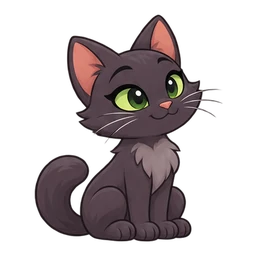
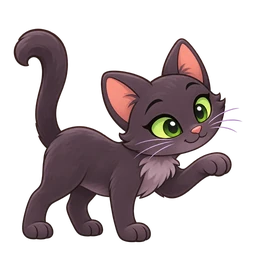
Kara kedi ve kanişin duruşlarını ayırt et

diff --git a/src/avatar/Avatar.tsx b/src/avatar/Avatar.tsx
@@ -256,6 +256,8 @@ const SHOULDER_CONTACT: Partial<Record<string, { x: number; y: number; width: nu
   tiger: { x: 120, y: 241, width: 0.27, angle: 8 },
   leopard: { x: 211, y: 239, width: 0.31, angle: 8 },
   wolf: { x: 74, y: 239, width: 0.27, angle: 8 },
+  blackcat: { x: 135, y: 240, width: 0.28, angle: 7, faceChild: true },
+  poodle: { x: 78, y: 240, width: 0.28, angle: 7 },
 }
 
 // 512 px kıyafet katmanında omuz çizgisi (x=368). Kapüşon ve zırh daha yukarıda.

diff --git a/gelistirme/avatar_uretim/NOTLAR.md b/gelistirme/avatar_uretim/NOTLAR.md
@@ -292,7 +292,9 @@ Yerleşik ImageGen'de her hayvanın mevcut `public/av/pet/` WebP'si düzenleme h
 - **Kaplan** ön patilerini uzatarak öne çömelir, iri çizgili kuyruğunu kaldırır ve ağzı açık gülümser.
 - **Leopar** ön patileri çapraz uzanır, yana bakar ve kuyruğunu kanca biçiminde kıvırır. Halkalı benekleri büyütüldü.
 - **Kurt** oturur, gözlerini kapatır ve başını yana ve yukarı kaldırarak ulur.
+- **Kara kedi** yeşil gözlerini korur, ayağa kalkıp bir ön patisini ileri uzatır ve kuyruğunu dik tutar. Tekir WebP'si oturan siluet için karşılaştırma referansıydı.
+- **Kaniş** sekerek bir ön patisini yukarı kaldırır. Uzun sarkık kulakları, ayak bileğindeki bukleler ve yuvarlak kuyruk ucu silueti belirler. Kuzu ve köpek WebP'leri karşılaştırma referansıydı.
 
-Dört çizimin 512 px ana kopyası `kaynak/pet_poz/` altında. Mevcut faz 4 kırpma yordamıyla en uzun kenar 460 px, taban çizgisi y=486 olacak şekilde hizalandı. `paketle.py --phase 4`, varsa bu ana kopyaları seçer ve mevcut katalog yollarına 256 px WebP yazar.
+Bu çizimlerin 512 px ana kopyaları `kaynak/pet_poz/` altında. Mevcut faz 4 kırpma yordamıyla en uzun kenar 460 px, taban çizgisi y=486 olacak şekilde hizalandı. `paketle.py --phase 4`, varsa bu ana kopyaları seçer ve mevcut katalog yollarına 256 px WebP yazar.
 
 Papağan `pet/parrot.webp` ve `pose/dog-cradle.webp` referanslarından ayrı çizildi. İstemde soldaki tünek ucuna bakan kırmızı mavi papağanın iki ayağının da sola uzatılan işaret parmağına sarılması, elin soğuk gri, ayakların sıcak kahverengi çizilmesi istendi. Birlikte çizildikleri için pençe ve parmak birbirini doğru sırada örtüyor. Birleşik çizim alfa sınırına kırpıldı ve 210 px enle 512 px tuvalde x=242'ye, bilek alt kenarda bitişecek biçimde yerleştirildi. Sağ alttaki nötr gri el piksellerinden ten maskesi çıkarıldı. Paketleme `pose/parrot-grip.webp` ve maskesini üretir, kodlanmış görselden boyama referansını hesaplar. Tünek yalnız kucak pozunda kullanılır. Omuz temas noktaları 256 px hayvan tuvalinde pati veya pençenin kumaşa değdiği yere göre belirlenir.

diff --git a/gelistirme/gorsel_rapor/PLANS.md b/gelistirme/gorsel_rapor/PLANS.md
@@ -26,4 +26,7 @@ Yerleşik ImageGen aracı, şeffaf PNG ve ikinci ekran görüntüsü referansıy
 - [x] Yanak ve çene hatlarını belirginleştir. Küçük yüz kartlarında oyuncunun saç, şapka ve gözlüğünü göster.
 - [x] 360 × 640 ve 1440 × 900 yerel Chrome demolarında parçaları tek tek dene, geri al, tak ve yenile. Yerel PostgreSQL kurulumunu ve geçişi kontrol et.
 
-Sıradaki aşama uzun kollu kucak çizimleri, kep altında Afro hacmi ve dinozor kapüşonu ile pelerinin okunurluğu.
+## Kıyafet ve hayvan arkadaşları
+
+- [x] Kucak pozlarında uzun kolları giysiye uydur. Kep altında Afro hacmini, küçük kartlarda dinozor kapüşonu ile pelerinin okunurluğunu artır.
+- [x] Papağanın kucak pozunu parmağa bağla. Aslan, kaplan, leopar, kurt, kara kedi ve kanişe ayırt edici duruşlar ver.
